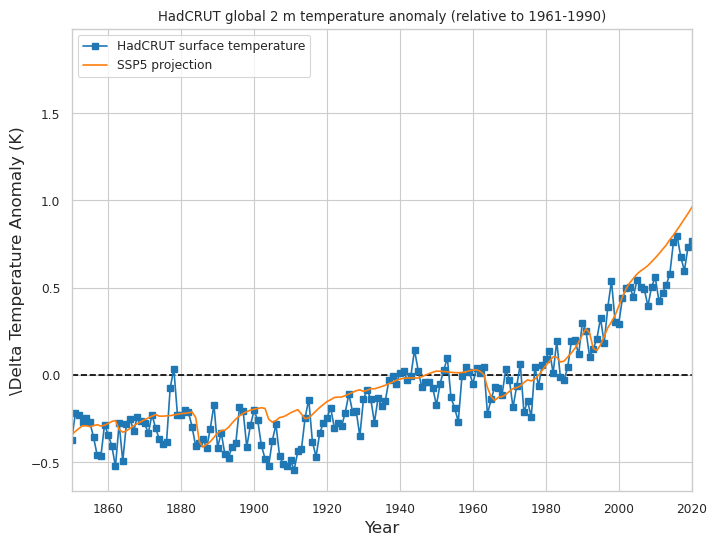
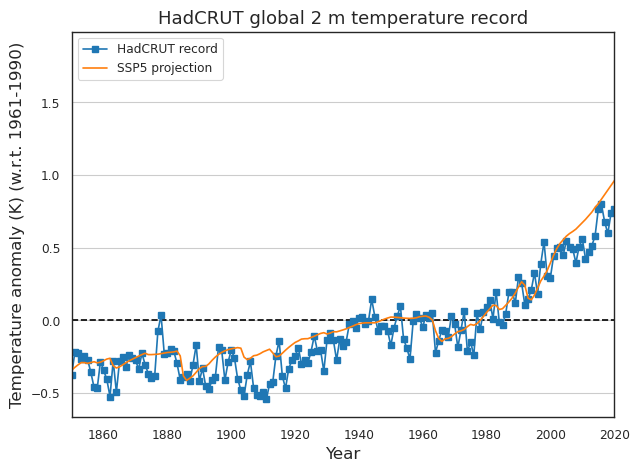
add all changes to figs

Changed region(s): [[0.0, 0.0, 1.0, 0.9788]]

diff --git a/experiments.py b/experiments.py
@@ -9,9 +9,11 @@ import matplotlib.patches as mpatches
 
 ## GLOBALS
 FORCING_SENSITIVITY = 1
+COLORS = ['#f7564a', '#e6ac1c', '#5963f0']
+
 
 sns.set_context('paper')
-sns.set_style('whitegrid')
+sns.set_style('white')
 
 ## load in data (Move to get_data_func)
 def load_data(data_path):
@@ -28,21 +30,23 @@ def calc_anomaly(data, num_years):
     return anom
 
 
-def load_forcing_data(filename):
+def load_forcing_data(filename, volcanic=True):
     ERF_data = pd.read_csv(filename)
     ERF_data = ERF_data.set_index('year')
-    plot_volcanic_record(ERF_data)
-    
-    KRAK_VALS[1883] = ERF_data['volcanic'][KRAKATOA_YEAR]
-    KRAK_VALS[1884] = ERF_data['volcanic'][KRAKATOA_YEAR+1]
-    KRAK_VALS[1885] = ERF_data['volcanic'][KRAKATOA_YEAR+2]
-    KRAK_VALS[1886] = ERF_data['volcanic'][KRAKATOA_YEAR+3]
 
-    past_volcanic_record = len(ERF_data['volcanic'].loc[1850:2024]) 
-    new_vals = list(ERF_data['total'].loc[:2024].values)
-    new_vals.extend(ERF_data['total'].loc[2024:2023+past_volcanic_record].values + ERF_data['volcanic'].loc[1850:2024].values)
-    new_vals.extend(ERF_data['total'].loc[2024+past_volcanic_record+1:].values)
-    ERF_data['total'] = new_vals
+    if volcanic == True:
+        plot_volcanic_record(ERF_data)
+        
+        KRAK_VALS[1883] = ERF_data['volcanic'][KRAKATOA_YEAR]
+        KRAK_VALS[1884] = ERF_data['volcanic'][KRAKATOA_YEAR+1]
+        KRAK_VALS[1885] = ERF_data['volcanic'][KRAKATOA_YEAR+2]
+        KRAK_VALS[1886] = ERF_data['volcanic'][KRAKATOA_YEAR+3]
+
+        past_volcanic_record = len(ERF_data['volcanic'].loc[1850:2024]) 
+        new_vals = list(ERF_data['total'].loc[:2024].values)
+        new_vals.extend(ERF_data['total'].loc[2024:2023+past_volcanic_record].values + ERF_data['volcanic'].loc[1850:2024].values)
+        new_vals.extend(ERF_data['total'].loc[2024+past_volcanic_record+1:].values)
+        ERF_data['total'] = new_vals
 
     ERF = np.array(ERF_data.loc[1850:2020]['total']) * FORCING_SENSITIVITY
     ERF_fut = np.array(ERF_data.loc[1850:2100]['total'] * FORCING_SENSITIVITY)
@@ -64,35 +68,54 @@ def plot_model(years, model, ax=None, fig=None, legend=True, **kwargs):
     plt.plot(years, model, **kwargs)
     plt.hlines(0,1850,2100, linestyle='--', color='k')
     plt.xlim(1850, 2100)
+    plt.ylim(-1,7)
     plt.xlabel('Year', fontsize=12)
-    plt.ylabel('Temperature Anomaly (K)', fontsize=12)
+    plt.ylabel('Temperature Anomaly (K) (w.r.t. 1961-1990)', fontsize=10)
+    ax.grid(True)
     if legend:
-        plt.legend()
+        plt.legend(loc='upper left')
     return fig, ax
 
 
 def plot_volcanic_record(data):
     past_volcanic_record = len(data['volcanic'].loc[1850:2024]) 
-
-    fig, ax = plt.subplots(1, figsize=(10, 6))
+    # print('sum volcanic record added = ', data['volcanic'].loc[1850:1850+77].values.sum())
+    sns.set_style('white')
+    fig, ax = plt.subplots(1, figsize=(7, 5))
     data['volcanic'].loc[1850:2024].plot(ax=ax)
+    ax.grid(axis='y')
     ax.plot(np.arange(2024,2024+past_volcanic_record), data['volcanic'].loc[1850:2024].values)
+    plt.vlines(2024, -2, 2,color='k', linestyle='--')
+    plt.ylim(-2,2)
+    plt.xlim(1850,2100)
+    plt.xlabel('Year', size=13)
+    plt.title("\'New\' Volcanic record", size=14)
+    plt.ylabel('Effective Radiative Forcing (ERF)', size=13)
     plt.savefig('outputs/volcanic_record_extended.png', bbox_inches='tight')
     plt.close()
 
 def plot_temp_anom(data, data2):
-    fig, ax = plt.subplots(1, figsize=(8, 6))
-    ax.plot(np.arange(1850,2021), data, marker='s', label='HadCRUT surface temperature')
+    fig, ax = plt.subplots(1, figsize=(7, 5))
+    ax.plot(np.arange(1850,2021), data, marker='s', label='HadCRUT record')
     ax.plot(np.arange(1850,2101),data2, label='SSP5 projection')
+    ax.grid(axis='y')
     plt.hlines(0,1850,2020, linestyle='--', color='k')
     plt.xlim(1850, 2020)
     plt.xlabel('Year', fontsize=12)
-    plt.ylabel('\Delta Temperature Anomaly (K)', fontsize=12)
-    plt.title("HadCRUT global 2 m temperature anomaly (relative to 1961-1990)")
+    plt.ylabel('Temperature anomaly (K) (w.r.t. 1961-1990)', fontsize=12)
+    plt.title("HadCRUT global 2 m temperature record", size=13)
     plt.legend(loc='upper left')
     plt.savefig('outputs/hadCRUT_time.png', bbox_inches='tight')
     plt.close()
 
+def get_non_volcanic_results(scen_file, forcing_scenario_path, temp_anom, VOLCANIC_RESULTS, krakatwoa=False):
+    ERF, ERF_fut = load_forcing_data(forcing_scenario_path, volcanic=False)
+    alpha_val, alpha_stderr = model.get_opt_model(temp_anom=temp_anom, F=ERF)
+    projection = model.upper_ocean_temp(t=len(ERF_fut), alpha=alpha_val, F=ERF_fut, krakatwoa=krakatwoa)
+    proj_upper = model.upper_ocean_temp(t=len(ERF_fut), alpha=alpha_val+1.96*0.048, F=ERF_fut, krakatwoa=krakatwoa)
+    proj_lower = model.upper_ocean_temp(t=len(ERF_fut), alpha=alpha_val-1.96*0.048, F=ERF_fut, krakatwoa=krakatwoa)
+    VOLCANIC_RESULTS[scen_file[5:8] + 'non_volcanic'] = [proj_lower[-1], proj_upper[-1]]
+    return VOLCANIC_RESULTS
 
 
 def main(krakatwoa=False, save_filename='outputs/upper_ocean_projection_volcanic.png'):
@@ -116,15 +139,16 @@ def main(krakatwoa=False, save_filename='outputs/upper_ocean_projection_volcanic
 
     ## initialise_plot
     fig, ax = plt.subplots(1, figsize=(10,6))
-    fig, ax = plot_model(years, temp_anom, label='HadCRUT temperature  anomaly', fig=fig, ax=ax, marker='s', markersize=2, linewidth=1)
-    COLORS = ['#f7564a', '#e6ac1c', '#5963f0']
-    
+    fig, ax = plot_model(years, temp_anom, label='HadCRUT', fig=fig, ax=ax, marker='s', markersize=2, linewidth=1)
+
 
     ## run model under different forcing scenarios
     scenario_files = sorted(os.listdir(path_to_ssp_forcings), reverse=True)
     for ind, scen_file in enumerate(scenario_files):
-
         forcing_scenario_path = os.path.join(path_to_ssp_forcings, scen_file)
+        ## TODO: clean up
+        get_non_volcanic_results(scen_file, forcing_scenario_path, temp_anom, VOLCANIC_RESULTS)
+        ## TODO: clean up above
         ERF, ERF_fut = load_forcing_data(forcing_scenario_path)
 
         alpha_val, alpha_stderr = model.get_opt_model(temp_anom=temp_anom, F=ERF)
@@ -133,15 +157,22 @@ def main(krakatwoa=False, save_filename='outputs/upper_ocean_projection_volcanic
         proj_lower = model.upper_ocean_temp(t=len(ERF_fut), alpha=alpha_val-1.96*0.048, F=ERF_fut, krakatwoa=krakatwoa)
         if not krakatwoa:
             ## IPCC
+            # print("expected temperature anomaly for %s " % (scen_file[5:8]), proj_lower[-1], proj_upper[-1])
+            VOLCANIC_RESULTS[scen_file[5:8]] = [proj_lower[-1], proj_upper[-1]]
             low_proj = model.upper_ocean_temp(t=len(ERF_fut), alpha=1.04-0.36, F=ERF_fut, krakatwoa=krakatwoa)
             high_proj = model.upper_ocean_temp(t=len(ERF_fut), alpha=1.04+0.36, F=ERF_fut, krakatwoa=krakatwoa)
             fig, ax = plot_model(years_fut, low_proj, fig=fig, ax=ax, alpha=.2, linestyle='--',  color=COLORS[ind], legend=False)
             fig, ax = plot_model(years_fut, high_proj, fig=fig, ax=ax, alpha=.2, linestyle='--', color=COLORS[ind], legend=False)
-            ax.add_patch(mpatches.Rectangle((2105,low_proj.max()),2, (high_proj.max()- low_proj.max()),facecolor=COLORS[ind],
+            ax.add_patch(mpatches.Rectangle((2105,low_proj[-1]),2, (high_proj[-1]- low_proj[-1]),facecolor=COLORS[ind],
                               clip_on=False,linewidth = 0,  alpha=.7))
             plt.text(2110, 7, r'AR5 $\alpha$ range')
             plt.text(2108, (high_proj.max() + low_proj.max())/2, '%s – RCP %s.%s' % (scen_file[4:8].upper(), scen_file[8:9], scen_file[9:10]), color=COLORS[ind])
 
+        else:
+            # print("krakatwoa: expected temperature anomaly for %s " % (scen_file[5:8]), proj_lower[-1], proj_upper[-1])
+            VOLCANIC_RESULTS[scen_file[5:8] + '_krakatwoa'] = [proj_lower[-1], proj_upper[-1]]
+            ax.add_patch(mpatches.Rectangle((2105,proj_lower[-1]),2, (proj_upper[-1]- proj_lower[-1]),facecolor=COLORS[ind],
+                              clip_on=False,linewidth = 0,  alpha=.7))
 
         
         ## plot and save ouputs
@@ -154,21 +185,42 @@ def main(krakatwoa=False, save_filename='outputs/upper_ocean_projection_volcanic
     ## plot temp anomaly
     plot_temp_anom(temp_anom,projection)
     
-    ## TODO: move following somewhere 
-    # with SSP5 -> plot value range from IPCC
-    if not krakatwoa:
-        low_proj = model.upper_ocean_temp(t=len(ERF_fut), alpha=1.04-0.36, F=ERF_fut, krakatwoa=krakatwoa)
-        high_proj = model.upper_ocean_temp(t=len(ERF_fut), alpha=1.04+0.36, F=ERF_fut, krakatwoa=krakatwoa)
-
-        ## plot and save ouputs
-        fig, ax = plt.subplots(1, figsize=(10,6))
-        fig, ax = plot_model(years_fut, low_proj, label='Low alpha', fig=fig, ax=ax, color=COLORS[ind])
-        fig, ax = plot_model(years_fut, projection, label='%s' % (scen_file[:-16].replace('_', '–').upper()), fig=fig, ax=ax, color=COLORS[ind])
-        fig, ax = plot_model(years_fut, high_proj, label='High alpha', fig=fig, ax=ax, alpha=.4, color=COLORS[ind])
-        fig.savefig('outputs/comparison_with_ipcc_alpha_range.png', bbox_inches='tight', dpi=300)
-        plt.close()
-
 
 if __name__ == '__main__':
+    ## Store results
+    VOLCANIC_RESULTS = {}
     main()
     main(krakatwoa=True, save_filename='outputs/upper_ocean_projection_volcanic_krakatwoa.png')
+    
+    print(VOLCANIC_RESULTS)
+    ## comparison plot
+    different_scenarios = ['sp1', 'sp4', 'sp5']
+    different_types = ['non_volcanic', 'krakatwoa']
+    counter = 2
+    fig, axes = plt.subplots(1, 3, sharey=True, figsize=(7,4))
+    for ax, scen in zip(axes, different_scenarios):
+        ax.set_title(scen.upper(), size=14)
+        ax.grid(axis='x')
+        for key in VOLCANIC_RESULTS.keys():
+            if scen in key:
+                if 'non_volcanic' in key:
+                    ax.hlines(1, VOLCANIC_RESULTS[key][0], VOLCANIC_RESULTS[key][1], color=COLORS[counter])
+                    ax.vlines(VOLCANIC_RESULTS[key][0], 0.9, 1.1, color=COLORS[counter])
+                    ax.vlines(VOLCANIC_RESULTS[key][1], 0.9, 1.1, color=COLORS[counter])
+                elif 'krakatwoa' in key:
+                    ax.hlines(3, VOLCANIC_RESULTS[key][0], VOLCANIC_RESULTS[key][1], color=COLORS[counter])
+                    ax.vlines(VOLCANIC_RESULTS[key][0], 2.9, 3.1, color=COLORS[counter])
+                    ax.vlines(VOLCANIC_RESULTS[key][1], 2.9, 3.1, color=COLORS[counter])
+                else:
+                    ax.hlines(2, VOLCANIC_RESULTS[key][0], VOLCANIC_RESULTS[key][1], color=COLORS[counter])
+                    ax.vlines(VOLCANIC_RESULTS[key][0], 1.9, 2.1, color=COLORS[counter])
+                    ax.vlines(VOLCANIC_RESULTS[key][1], 1.9, 2.1, color=COLORS[counter])
+        plt.yticks(np.arange(1,4,1), ['Non-volcanic', 'Volcanic', 'Krakatwoa'])
+        counter -= 1
+    # plt.ylim(0, 10)
+    # plt.xlim(0,5)
+    axes[0].set_ylabel('Experiment', size=12)
+    axes[1].set_xlabel('Temperature Anomaly (K) (w.r.t 1961-1990)', size=12)
+    plt.suptitle('2100 Temperature anomaly', size=14)
+    plt.subplots_adjust(top=.85)
+    fig.savefig('outputs/compare_results.png', bbox_inches='tight', dpi=300)
